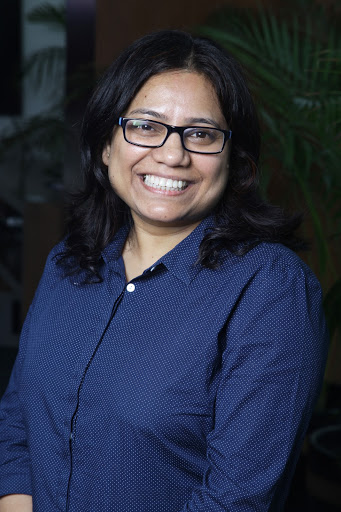
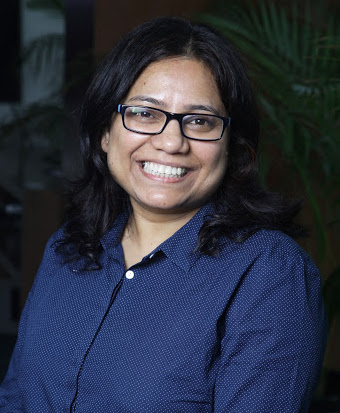
Gopi | chores - rectangular design for speakers

diff --git a/css/app.css b/css/app.css
@@ -4293,11 +4293,13 @@ a.vd-link {
 .speakers-list-item img {
   width: 180px;
   height: 180px;
+  filter: grayscale(100%);
   border-radius: 10%;
 }
 
 .speakers-list-item p {
   color: #fff;
+  padding: 2px;
   margin-left: 25px;
 }
 
